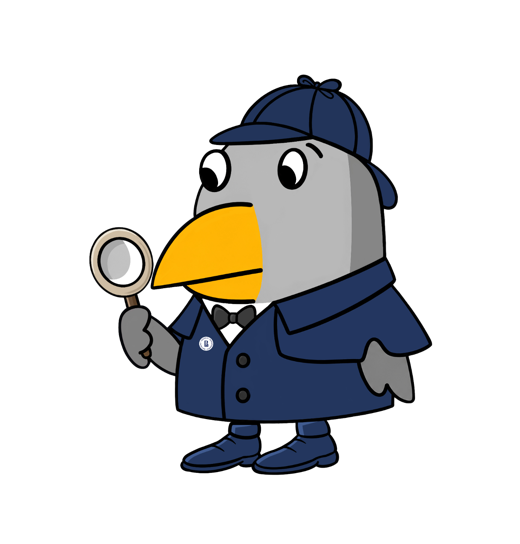
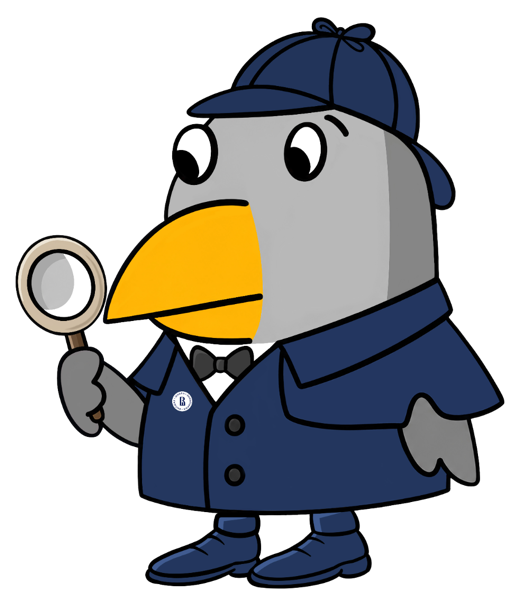
404: ворона крупнее – обрезка по фигуре вместо роста рамки
Решение владельца: эмблема на воротнике («Факультет права») нечитаема
на 404. Рамка уже была 260px (задача 12) – причина в другом: rest.png
несёт холст-запас вокруг фигуры, сама ворона занимала внутри рамки лишь
~66% ширины (260px рамки -> ~172px фигуры, отсюда «на глаз ~170px» в
брифе). scripts/build-crow-assets.js (buildStill) теперь обрезает
rest.png по альфа-бордеру фигуры (+3% отступа) ДО масштабирования –
те же 260px рамки заняты самой вороной, а не пустым полем вокруг неё.
Прямоугольник обрезки измерен один раз (bbox 239,200-1164,1279 в
1400×1465, см. STILL_CROP) и специфичен для этого исходника.

Кольцевая надпись на самой эмблеме остаётся смазанной даже в присланном
rest.png на полном разрешении – предел резкости источника, обрезкой не
лечится; эмблема опознаётся как круглый значок, что и было целью.

still.webp вырос до 77 КБ (был 47 КБ) – в бюджет владельца 80 КБ
укладывается; tests/unit/notfound-crow.test.js: порог 60 -> 80 КБ.
404.html: height атрибута img поднят 272 -> 303 (новая пропорция после
обрезки), width рамки не менялся.

Замер (Playwright, .venv-tests): 1440×900 и 390×844 – scrollWidth ===
clientWidth, ворона не пересекается с плашкой «Ошибка 404», заголовком
и кнопками, «404» фоном на месте (её позиция не зависит от .wrap).

Claude-Session: https://claude.ai/code/session_01C9gB4xPRSqo8iD9i6JC56Z

diff --git a/scripts/build-crow-assets.js b/scripts/build-crow-assets.js
@@ -63,6 +63,18 @@ const WEBP_LOSSLESS_EFFORT = 9;
 const STILL_SOURCE = 'rest.png';
 const STILL_OUT = 'still.webp';
 const STILL_TARGET_WIDTH = 520;
+// rest.png (1400x1465) несёт вокруг фигуры холст-запас – у самой вороны
+// (с лупой и ботинками) непрозрачные пиксели занимают только 926x1080 из
+// сцены, то есть 66% ширины и 74% высоты. На странице 404 это тот же
+// запас, что делал воротник с эмблемой факультета нечитаемым пятном –
+// 260px CSS-ширины box, а сама фигура внутри него фактически ~172px
+// (260*0.66). Задача 13 (08.09.2026): картинка обрезается по фигуре ДО
+// масштабирования (плюс ~3% отступа с каждой стороны, чтобы не резать
+// впритык), тогда те же 260px box занимает сама ворона, а не пустое поле
+// вокруг неё. Прямоугольник измерен по альфа-каналу rest.png один раз
+// (bbox 239,200-1164,1279 + 3% отступ, округлено) – специфичен для этого
+// исходника, при новой поставке от дизайнера пересчитать заново.
+const STILL_CROP = { top: 168, left: 211, width: 982, height: 1144 };
 
 const ROOT = path.resolve(__dirname, '..');
 const DEFAULT_OUT_DIR = path.join(ROOT, 'images', 'crow');
@@ -92,12 +104,20 @@ function buildStill(srcDir, outDir, tmpDir) {
   }
 
   const before = fs.statSync(srcFile).size;
-  const { width, height } = pixelSize(srcFile);
+
+  const croppedFile = path.join(tmpDir, 'still-cropped.png');
+  execFileSync('sips', [
+    '-c', String(STILL_CROP.height), String(STILL_CROP.width),
+    '--cropOffset', String(STILL_CROP.top), String(STILL_CROP.left),
+    srcFile, '--out', croppedFile,
+  ], { stdio: 'ignore' });
+
+  const { width, height } = pixelSize(croppedFile);
   const targetWidth = STILL_TARGET_WIDTH;
   const targetHeight = Math.round((height * targetWidth) / width);
 
   const resizedFile = path.join(tmpDir, 'still.png');
-  execFileSync('sips', ['-z', String(targetHeight), String(targetWidth), srcFile, '--out', resizedFile], { stdio: 'ignore' });
+  execFileSync('sips', ['-z', String(targetHeight), String(targetWidth), croppedFile, '--out', resizedFile], { stdio: 'ignore' });
 
   if (!hasAlpha(resizedFile)) {
     throw new Error('альфа-канал потерян при масштабировании: still');

diff --git a/404.html b/404.html
@@ -93,7 +93,15 @@
      (images/crow/still.webp, см. scripts/build-crow-assets.js). alt пустой –
      ворона декоративна, смысл несёт текст рядом, не она сама. Ширина 260px –
      тот же размер, что у маскота в углу лендинга (js/crow-mascot.js,
-     width по умолчанию 260). */
+     width по умолчанию 260).
+     Задача 13 (08.09.2026): владелец заметил, что эмблема на воротнике
+     нечитаема – причина была не в 260px рамки, а в холсте-запасе вокруг
+     фигуры внутри still.webp (сама ворона занимала лишь ~66% ширины
+     рамки). scripts/build-crow-assets.js теперь обрезает картинку по
+     фигуре до масштабирования – при той же ширине рамки 260px сама
+     ворона стала крупнее, эмблема опознаётся как круглый значок (не
+     решает предел резкости самого исходника: кольцевая надпись на нём
+     смазана уже в присланном rest.png). */
   .crow-404 { display: block; width: 260px; height: auto; margin: 0 0 20px; }
 
   .badge {
@@ -203,7 +211,7 @@
 <main>
   <span class="ghost-code" aria-hidden="true">404</span>
   <div class="wrap">
-    <img class="crow-404" src="/dpo-pravo-hse/images/crow/still.webp" width="260" height="272" alt="">
+    <img class="crow-404" src="/dpo-pravo-hse/images/crow/still.webp" width="260" height="303" alt="">
     <span class="badge">Ошибка 404</span>
     <h1 id="top">Такой страницы нет</h1>
     <p class="lead">Возможно, адрес изменился или в ссылке опечатка. Каталог программ

diff --git a/tests/unit/notfound-crow.test.js b/tests/unit/notfound-crow.test.js
@@ -28,9 +28,13 @@ test('на 404 нет ни одного тега <script> и CSP не ослаб
   assert.match(csp[1], /default-src 'none'/, 'default-src \'none\' – самая строгая политика на сайте, её нельзя ослаблять');
 });
 
-test('images/crow/still.webp существует и укладывается в бюджет 60 КБ', () => {
+test('images/crow/still.webp существует и укладывается в бюджет 80 КБ', () => {
+  // Бюджет поднят с 60 до 80 КБ в задаче 13: картинка обрезается по фигуре
+  // до масштабирования (см. STILL_CROP в scripts/build-crow-assets.js),
+  // те же 2x-пиксели теперь несут кадр без пустого запаса по краям – вес
+  // вырос (47 -> 77 КБ), но в бюджет 80 КБ укладывается.
   const file = path.join(ROOT, 'images', 'crow', 'still.webp');
   assert.ok(fs.existsSync(file), 'нет images/crow/still.webp');
   const size = fs.statSync(file).size;
-  assert.ok(size <= 60 * 1024, `still.webp весит ${Math.round(size / 1024)} КБ, бюджет – 60 КБ`);
+  assert.ok(size <= 80 * 1024, `still.webp весит ${Math.round(size / 1024)} КБ, бюджет – 80 КБ`);
 });
